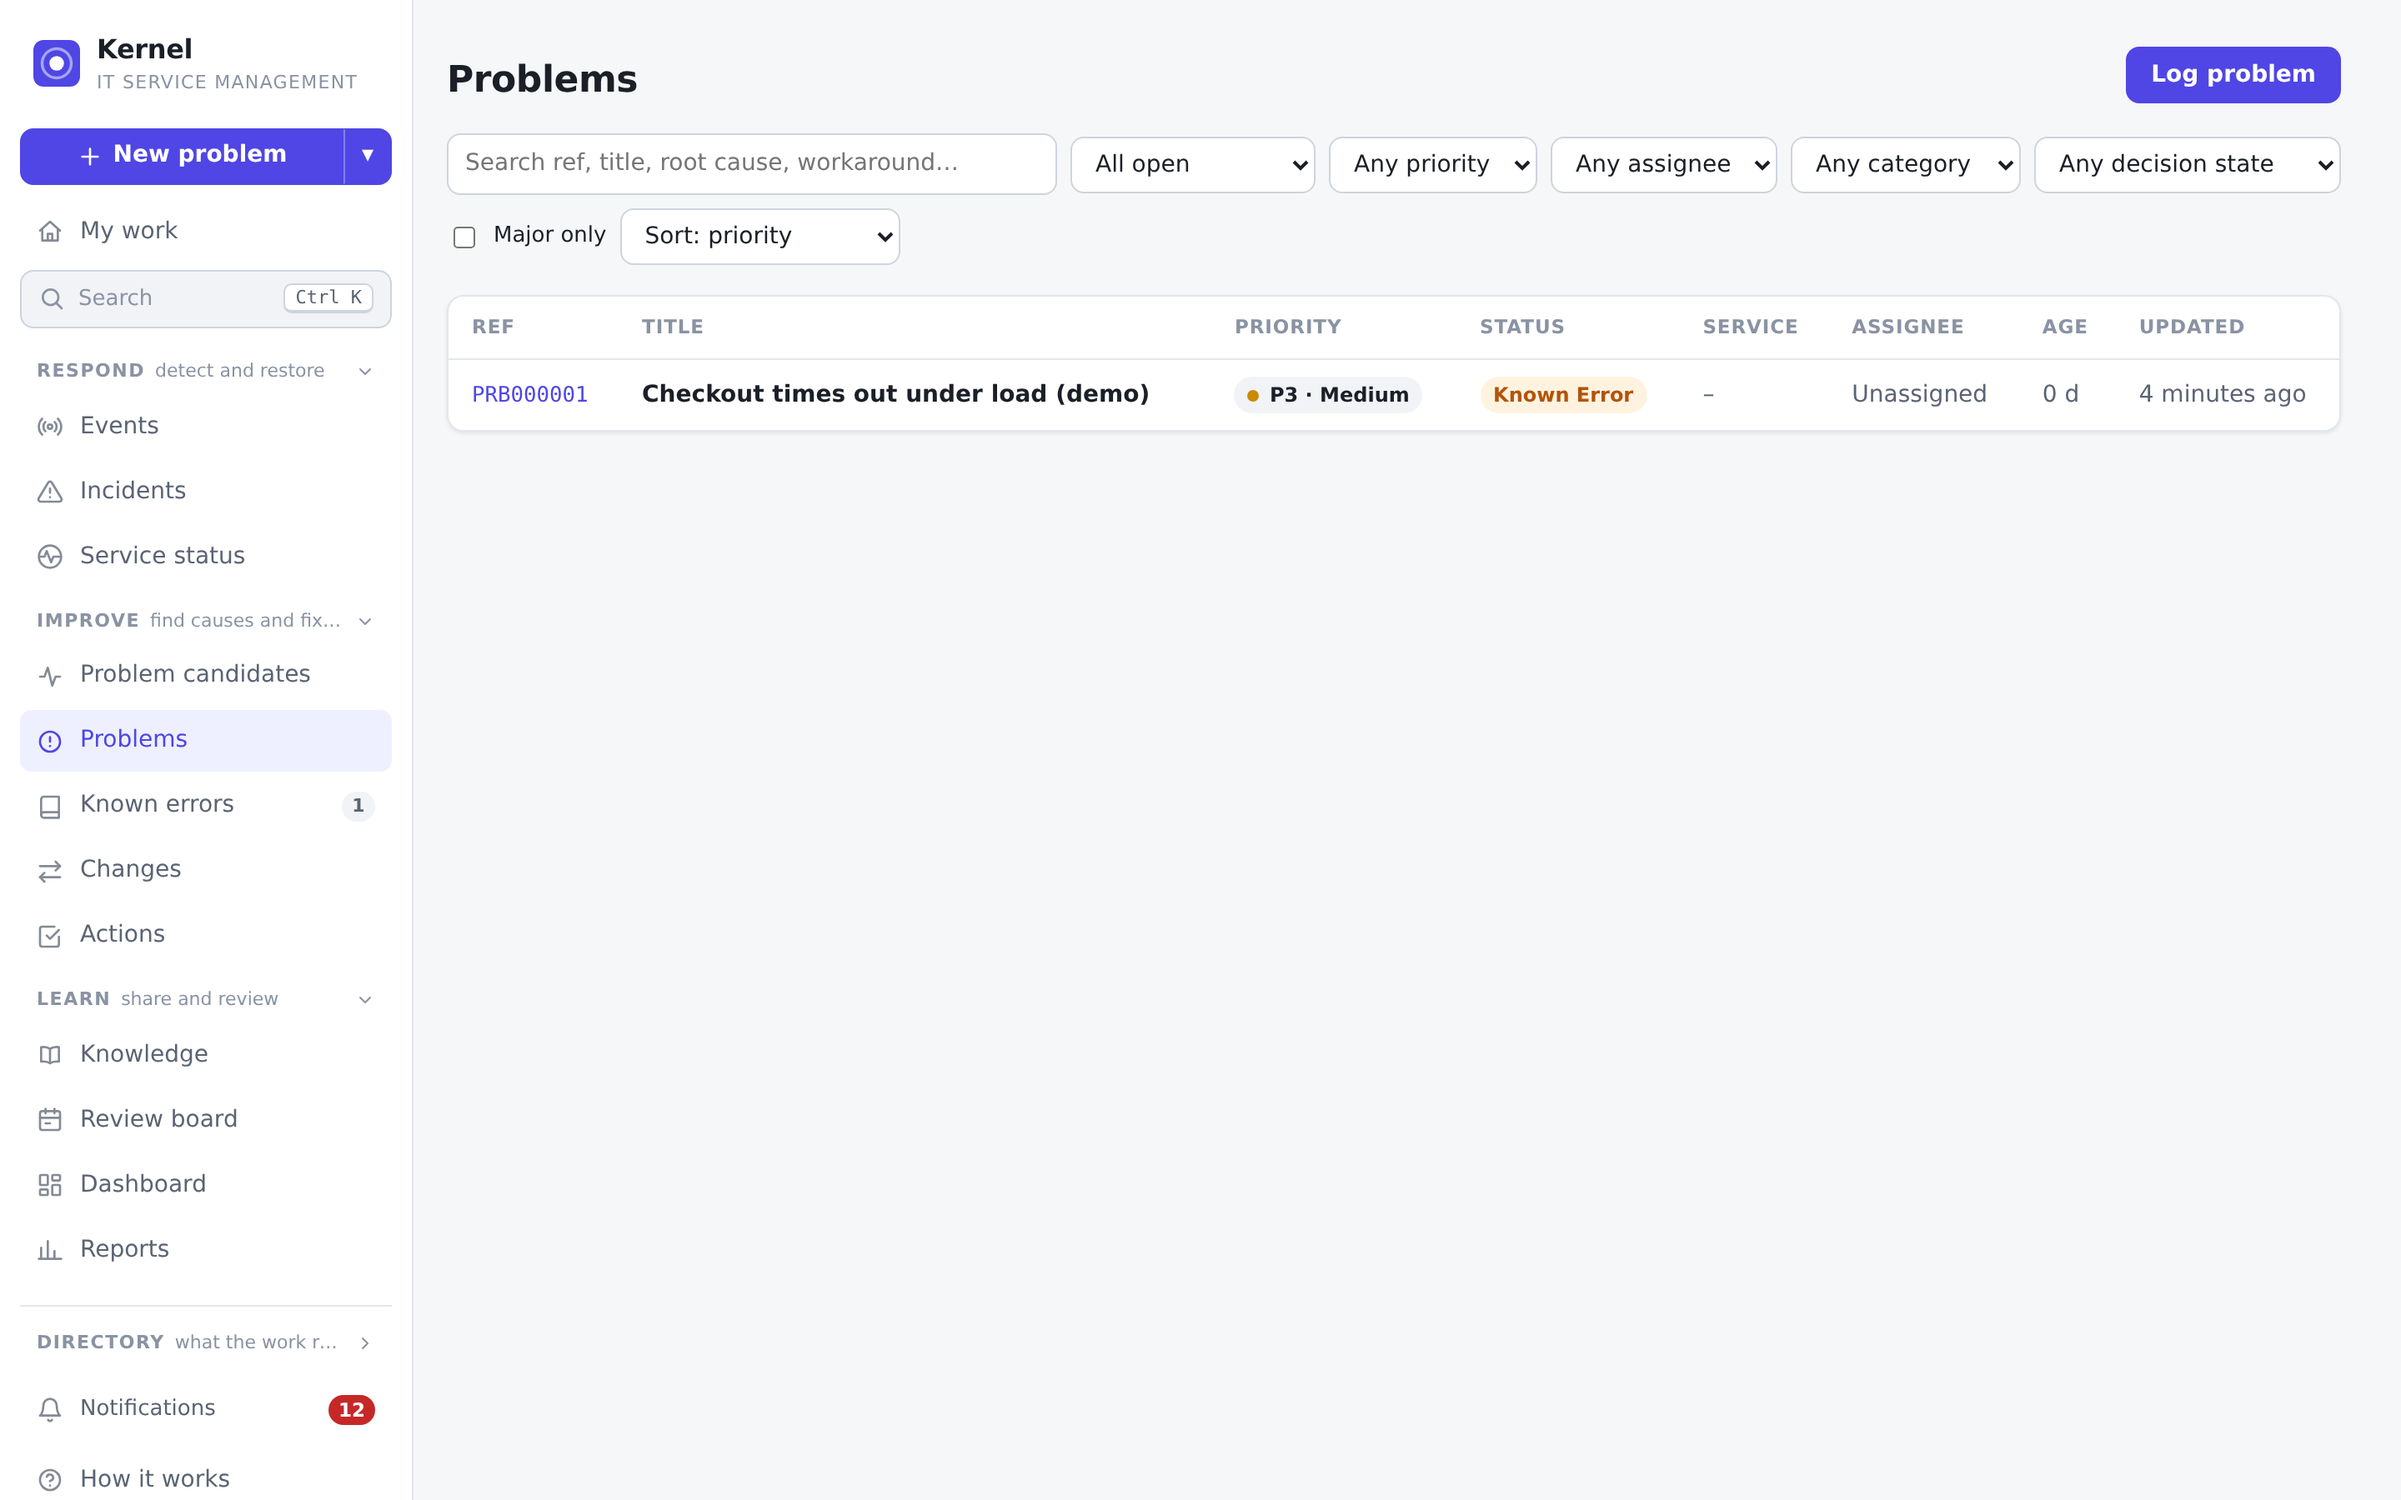
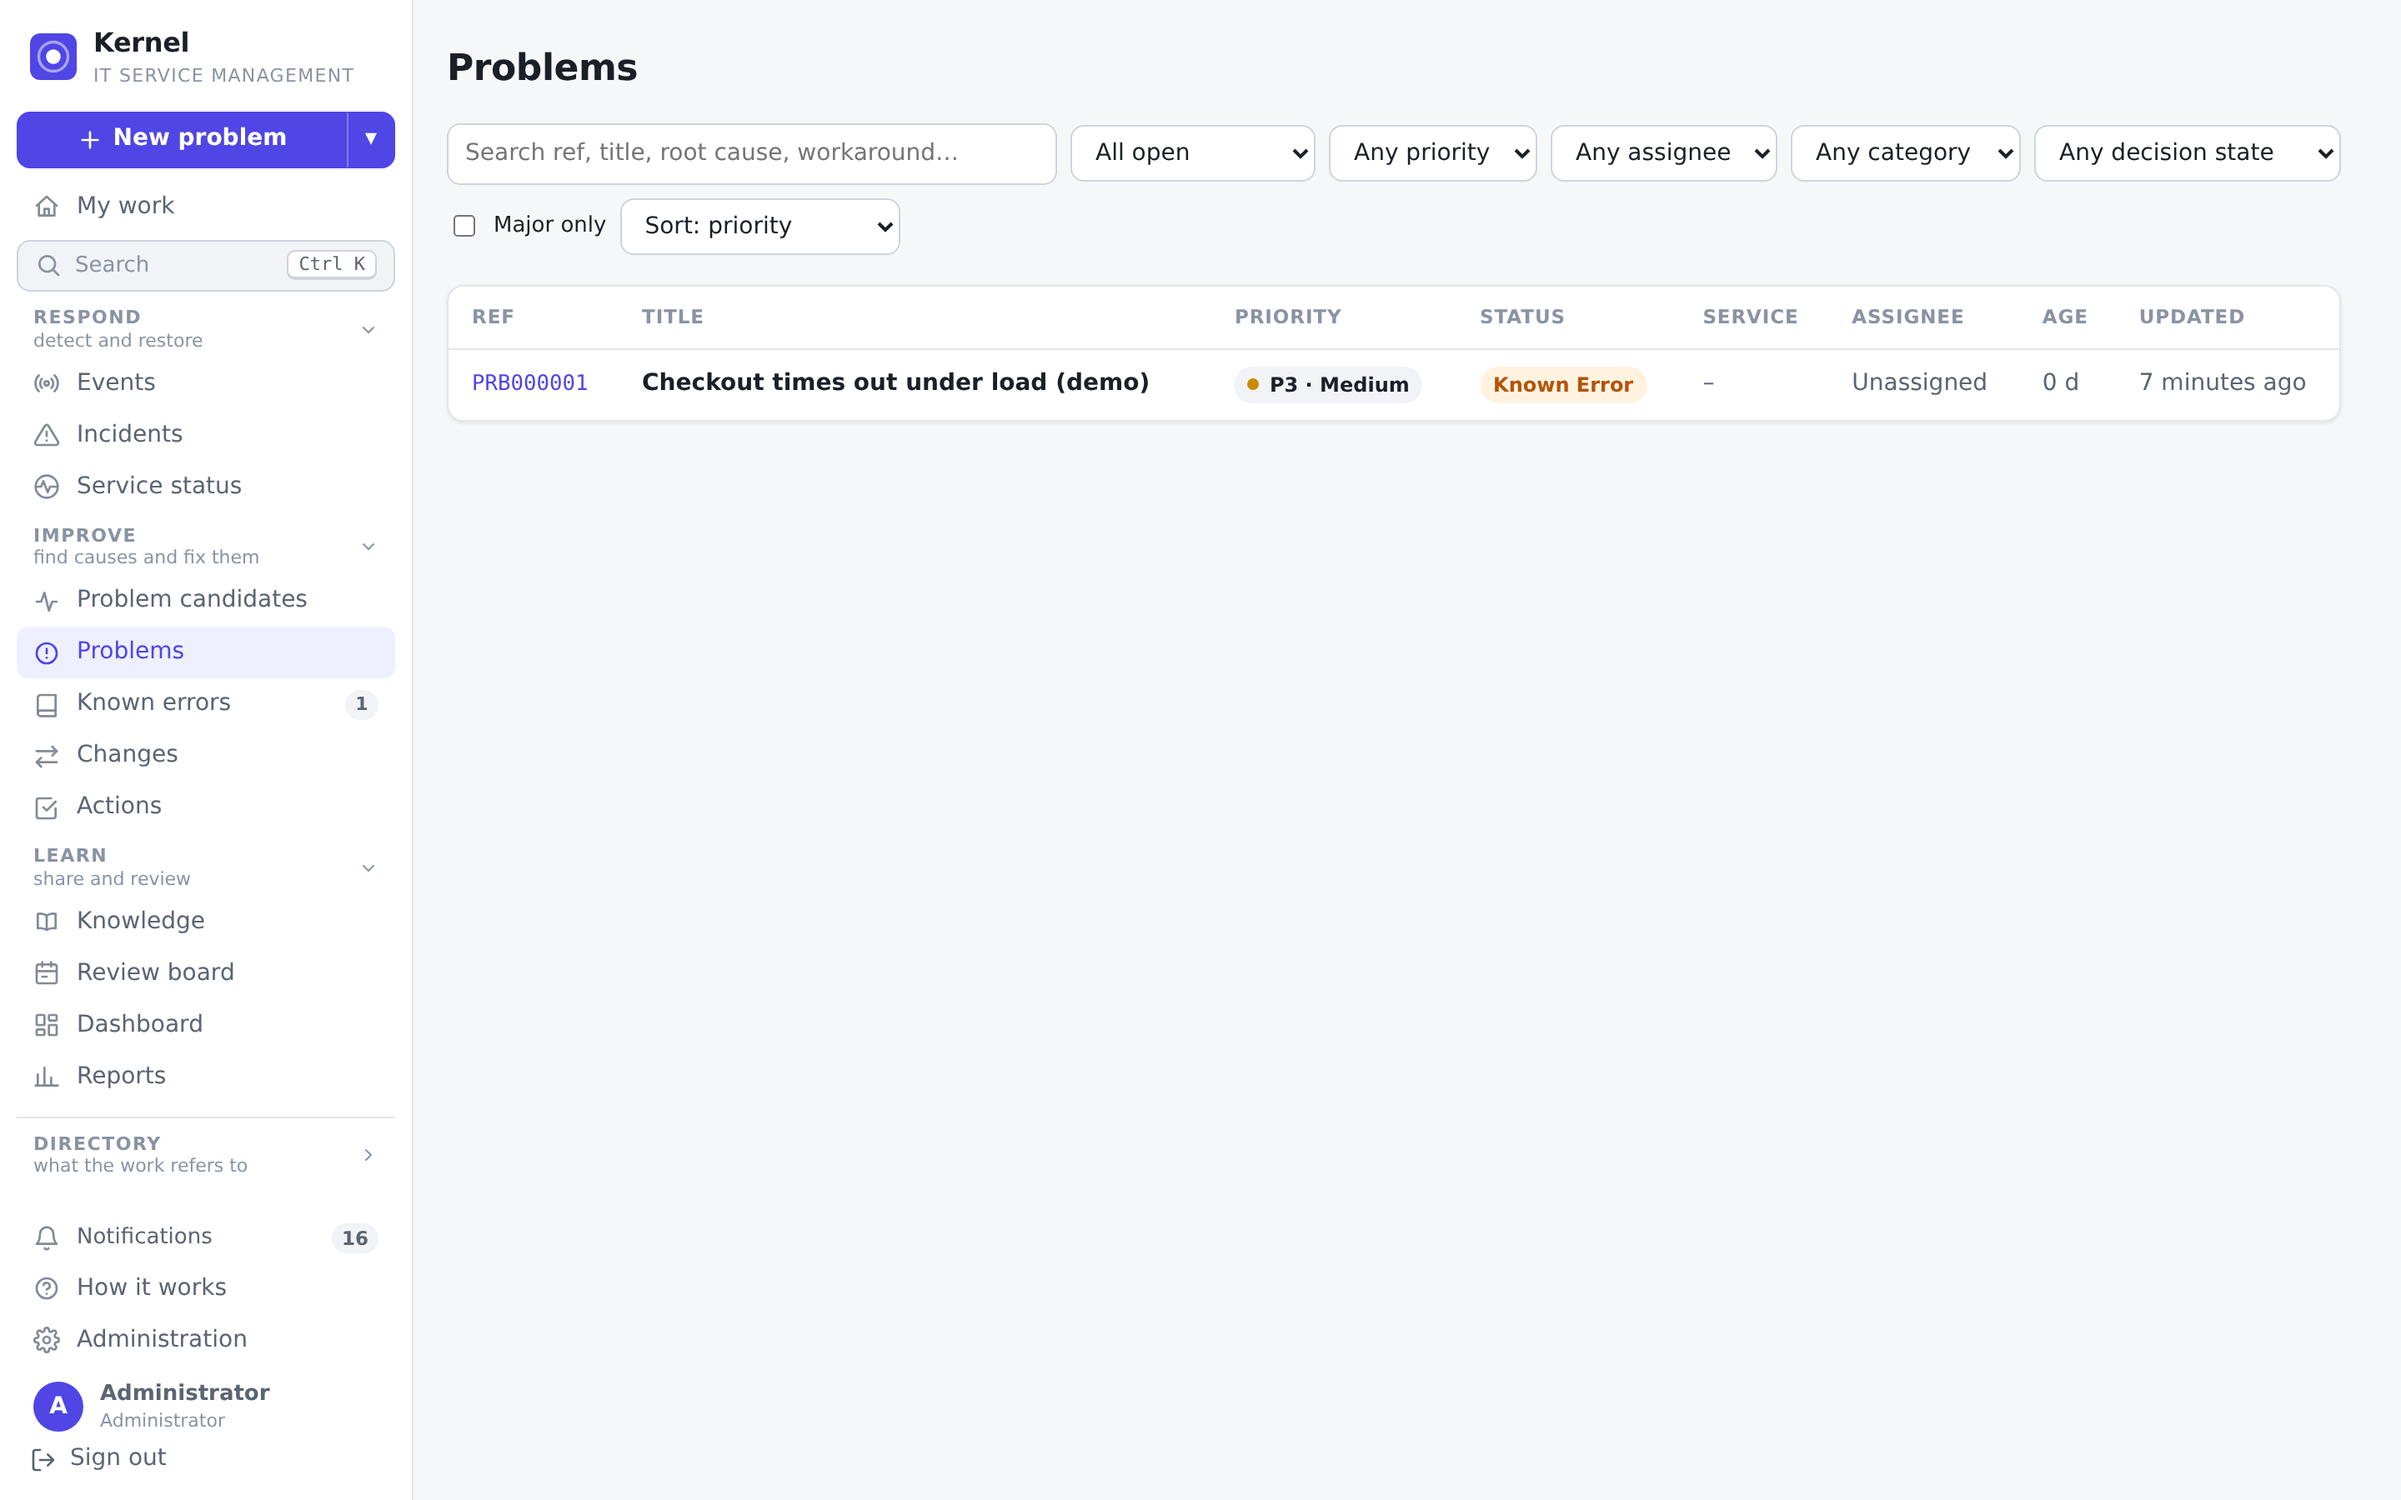
Navigation polish: context-aware New, one create button, fits 1440x900
Review on #102:
- "+ New" starts with the record of the page you are on (New incident
  on incidents and events, New change on changes…); tested
- One create button per screen: the page buttons (now "New …") show
  only on phones, where the menu is a drawer
- Group purposes on their own line instead of being cut off
- Compact rows: the whole menu, down to sign-out, fits 1440x900
  without scrolling (measured in the screenshot run: 900/900)
- The notifications count is neutral, not red
- Screenshots updated

Refs #102

Claude-Session: https://claude.ai/code/session_01Lsd1in7xd7o1u9JXt9Ack4

diff --git a/web/src/styles.css b/web/src/styles.css
@@ -951,7 +951,7 @@ tr.total td { border-bottom: 2px solid var(--border-strong); }
 
 /* Notifications (#48) */
 .bell { position: relative; }
-.bell-count { margin-left: auto; min-width: 20px; padding: 0 6px; border-radius: 999px; background: var(--danger); color: #fff; font-size: 11.5px; font-weight: 700; text-align: center; line-height: 18px; }
+.bell-count { margin-left: auto; min-width: 20px; padding: 0 6px; border-radius: 999px; background: var(--surface-2); color: var(--text-2); font-size: 11.5px; font-weight: 700; text-align: center; line-height: 18px; }
 .notification-list { list-style: none; margin: 0; padding: 0; }
 .notification-list li { display: grid; grid-template-columns: 120px 1fr auto; gap: 12px; align-items: start; padding: 12px 20px; border-bottom: 1px solid var(--border); }
 .notification-list li:last-child { border-bottom: none; }
@@ -1126,11 +1126,12 @@ tr.total td { border-bottom: 2px solid var(--border-strong); }
 .sidebar nav .search-trigger { margin: 2px 0 6px; }
 .nav-group { display: flex; flex-direction: column; gap: 2px; margin-top: 6px; }
 .nav-group.register { margin-top: 12px; padding-top: 10px; border-top: 1px solid var(--border); }
-.nav-group-head { display: flex; align-items: baseline; gap: 6px; background: none; border: 0; padding: 4px 10px; cursor: pointer; color: var(--text-3); font: inherit; text-align: left; border-radius: 6px; }
+.nav-group-head { display: flex; align-items: center; gap: 6px; background: none; border: 0; padding: 4px 10px; cursor: pointer; color: var(--text-3); font: inherit; text-align: left; border-radius: 6px; }
 .nav-group-head:hover { color: var(--text-2); }
 .nav-group-head:focus-visible { outline: 2px solid var(--accent); outline-offset: 1px; }
 .nav-group-label { font-size: 11px; font-weight: 700; text-transform: uppercase; letter-spacing: .07em; }
-.nav-group-purpose { font-size: 11px; white-space: nowrap; overflow: hidden; text-overflow: ellipsis; }
+.nav-group-text { display: flex; flex-direction: column; line-height: 1.25; }
+.nav-group-purpose { font-size: 11px; }
 .nav-chevron { margin-left: auto; display: inline-flex; transition: transform .12s; align-self: center; }
 .nav-chevron .icon { width: 12px; height: 12px; }
 .nav-chevron.open { transform: rotate(90deg); }
@@ -1158,3 +1159,20 @@ tr.total td { border-bottom: 2px solid var(--border-strong); }
   .sidebar nav .search-trigger kbd { display: none; }
 }
 @media print { .sidebar { display: none !important; } }
+
+/* Compact rows, so the whole menu fits a 1440×900 screen (#102). */
+@media (min-width: 821px) {
+  .sidebar { padding: 14px 10px; }
+  .sidebar .brand { padding-bottom: 12px; }
+  .sidebar-body { gap: 8px; }
+  .sidebar nav { gap: 0; }
+  .sidebar nav a, .sidebar-foot a { padding: 5px 10px; }
+  .nav-group { gap: 0; margin-top: 4px; }
+  .nav-group.register { margin-top: 8px; padding-top: 6px; }
+  .nav-group-head { padding: 3px 10px; }
+  .sidebar nav .search-trigger { margin: 4px 0 2px; padding: 5px 10px; }
+  .sidebar-foot { gap: 0; }
+  .sidebar-foot .user-chip { margin-top: 4px; }
+  /* The menu's "+ New" is always there; the page buttons are for phones, where the menu is a drawer. */
+  .page-new { display: none; }
+}

diff --git a/web/src/components/Sidebar.tsx b/web/src/components/Sidebar.tsx
@@ -43,9 +43,10 @@ function Entry({ item, counts, path, onGo }: { item: NavItem; counts: Counts; pa
 function NewButton() {
   const { user, meta } = useSession();
   const navigate = useNavigate();
+  const location = useLocation();
   const [open, setOpen] = useState(false);
   const ref = useRef<HTMLDivElement>(null);
-  const items = newItems(user, meta);
+  const items = newItems(user, meta, location.pathname);
   useEffect(() => {
     if (!open) return;
     const close = (e: MouseEvent) => { if (!ref.current?.contains(e.target as Node)) setOpen(false); };
@@ -104,9 +105,11 @@ export function Sidebar({ onSearch }: { onSearch: () => void }) {
             const open = !folded.has(g.id) || g.items.some((i) => isActive(i, location.pathname));
             return (
               <div key={g.id} className={`nav-group${g.register ? ' register' : ''}`}>
-                <button type="button" className="nav-group-head" aria-expanded={open} onClick={() => toggle(g.id)}>
-                  <span className="nav-group-label">{g.label}</span>
-                  {g.purpose && <span className="nav-group-purpose">{g.purpose}</span>}
+                <button type="button" className="nav-group-head" aria-expanded={open} onClick={() => toggle(g.id)} title={g.purpose}>
+                  <span className="nav-group-text">
+                    <span className="nav-group-label">{g.label}</span>
+                    {g.purpose && <span className="nav-group-purpose">{g.purpose}</span>}
+                  </span>
                   <span className={`nav-chevron${open ? ' open' : ''}`}>{icons.chevron}</span>
                 </button>
                 {open && g.items.map((i) => <Entry key={i.to} item={i} counts={counts} path={location.pathname} onGo={go} />)}

diff --git a/web/src/nav.ts b/web/src/nav.ts
@@ -84,7 +84,7 @@ export const PALETTE_ONLY: NavItem[] = [
 
 /** "+ New": what this user may create, the most common first for their role. */
 export interface NewItem { to: string; label: string; module?: Module }
-export function newItems(user: User, meta: Meta): NewItem[] {
+export function newItems(user: User, meta: Meta, path = '/'): NewItem[] {
   if (!canEdit(user)) return [];
   const on = (m?: Module) => !m || meta.modules?.[m] !== false;
   const candidates: NewItem[] = [
@@ -94,8 +94,15 @@ export function newItems(user: User, meta: Meta): NewItem[] {
     { to: '/knowledge?new=1', label: 'Article', module: 'knowledge' },
   ];
   const all = candidates.filter((i) => on(i.module));
-  // Managers log problems most; analysts and service desk incidents.
-  return isManager(user) ? [...all.filter((i) => i.label === 'Problem'), ...all.filter((i) => i.label !== 'Problem')] : all;
+  // On a practice's pages, its own record comes first; elsewhere what the role logs most (managers problems, others
+  // incidents).
+  const here = path.startsWith('/incidents') || path.startsWith('/events') ? 'Incident'
+    : path.startsWith('/changes') ? 'Change'
+    : path.startsWith('/knowledge') ? 'Article'
+    : /^\/(problems|kedb|candidates|actions|review)/.test(path) ? 'Problem'
+    : isManager(user) ? 'Problem' : 'Incident';
+  const first = all.find((i) => i.label === here) ?? all[0];
+  return first ? [first, ...all.filter((i) => i !== first)] : [];
 }
 
 export const visible = (item: NavItem, user: User, meta: Meta) => (!item.module || meta.modules?.[item.module] !== false) && (!item.show || item.show(user));

diff --git a/web/src/pages/Knowledge.tsx b/web/src/pages/Knowledge.tsx
@@ -50,7 +50,7 @@ export function KnowledgePage() {
           <h1>Knowledge</h1>
           <p className="muted">Workarounds and solutions people can find when they need them. Known errors publish here in one step.</p>
         </div>
-        <div className="head-actions">{writer && <button className="btn primary" onClick={() => setCreating(true)}>Write an article</button>}</div>
+        <div className="head-actions">{writer && <button className="btn primary page-new" onClick={() => setCreating(true)}>New article</button>}</div>
       </header>
       <div className="filters">
         <input className="search" placeholder="Search articles…" value={q} onChange={(e) => setQ(e.target.value)} />

diff --git a/web/test/nav.test.ts b/web/test/nav.test.ts
@@ -38,4 +38,8 @@ test('"+ New" offers what the role may create', () => {
   assert.equal(newItems(user('problem_manager'), meta({}))[0].label, 'Problem');
   assert.equal(newItems(user('analyst'), meta({}))[0].label, 'Incident');
   assert.deepEqual(newItems(user('analyst'), meta({ incident: false, change: false, knowledge: false })).map((i) => i.label), ['Problem']);
+  // On a practice's pages its own record comes first.
+  assert.equal(newItems(user('problem_manager'), meta({}), '/incidents/INC000004')[0].label, 'Incident');
+  assert.equal(newItems(user('analyst'), meta({}), '/changes')[0].label, 'Change');
+  assert.equal(newItems(user('analyst'), meta({}), '/kedb')[0].label, 'Problem');
 });

diff --git a/web/src/pages/Changes.tsx b/web/src/pages/Changes.tsx
@@ -57,7 +57,7 @@ export function ChangesPage() {
           <h1>Changes</h1>
           <p className="muted">Assess the risk, authorise, schedule without collisions or freezes, and review.</p>
         </div>
-        {user.role !== 'viewer' && <button className="btn primary" onClick={() => setCreating(true)}>Request change</button>}
+        {user.role !== 'viewer' && <button className="btn primary page-new" onClick={() => setCreating(true)}>New change</button>}
       </header>
       <div className="seg-toggle tabs" role="tablist">
         {[['list', 'Changes'], ['schedule', 'Schedule'], ['templates', 'Standard changes'], ['freezes', 'Freezes']].map(([id, label]) => (

diff --git a/web/src/pages/Incidents.tsx b/web/src/pages/Incidents.tsx
@@ -79,7 +79,7 @@ export function IncidentsPage() {
           <h1>Incidents</h1>
           <p className="muted">Restore service first; hand recurring and major incidents to problem management.</p>
         </div>
-        {user.role !== 'viewer' && <button className="btn primary" onClick={() => setCreating(true)}>Log incident</button>}
+        {user.role !== 'viewer' && <button className="btn primary page-new" onClick={() => setCreating(true)}>New incident</button>}
       </header>
       <div className="filters">
         <input className="search" placeholder="Search incidents…" value={q} onChange={(e) => setQ(e.target.value)} />

diff --git a/web/src/pages/Problems.tsx b/web/src/pages/Problems.tsx
@@ -42,7 +42,7 @@ export function ProblemsPage() {
       <header className="page-head">
         <h1>Problems</h1>
         <SavedViews page="problems" />
-        {canEdit(user) && <Link className="btn primary" to="/problems/new">Log problem</Link>}
+        {canEdit(user) && <Link className="btn primary page-new" to="/problems/new">New problem</Link>}
       </header>
       <div className="filters">
         <input className="search" placeholder="Search ref, title, root cause, workaround…" value={q} onChange={(e) => setQ(e.target.value)} />
